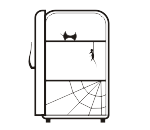
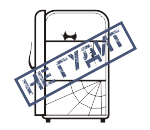
Добавлены иконки для выключенного холодильника

Changed region(s): [[0.08, 0.1538, 0.9333, 0.8308]]

diff --git a/Homework2/Homework2/Content/devicons.css b/Homework2/Homework2/Content/devicons.css
@@ -15,9 +15,11 @@
 }
 
 [devtype="Fridge"][open][on] .devIcon {
+	background-image: url(./Images/iconFridgeOpenOn.png);
 }
 
 [devtype="Fridge"][on] .devIcon {
+	background-image: url(./Images/iconFridgeOn.png);
 }
 
 [devtype="Clock"] .devIcon {
